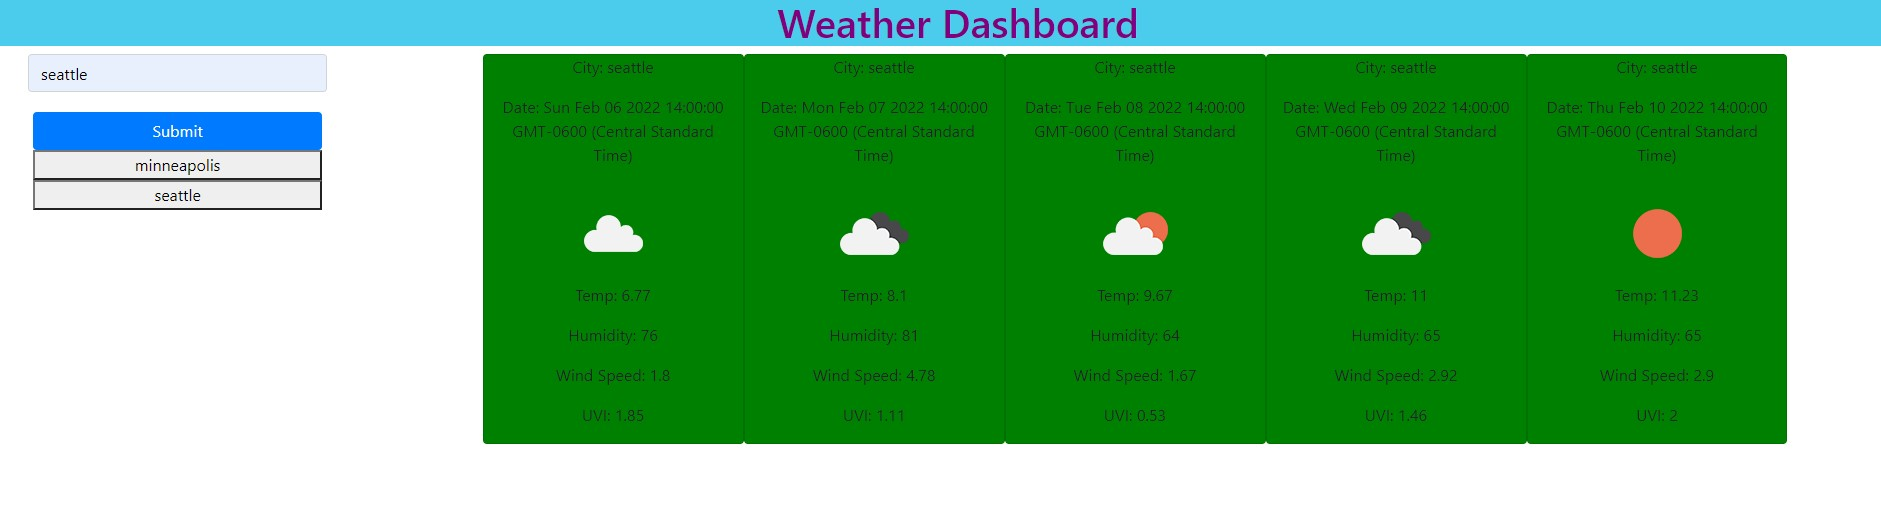
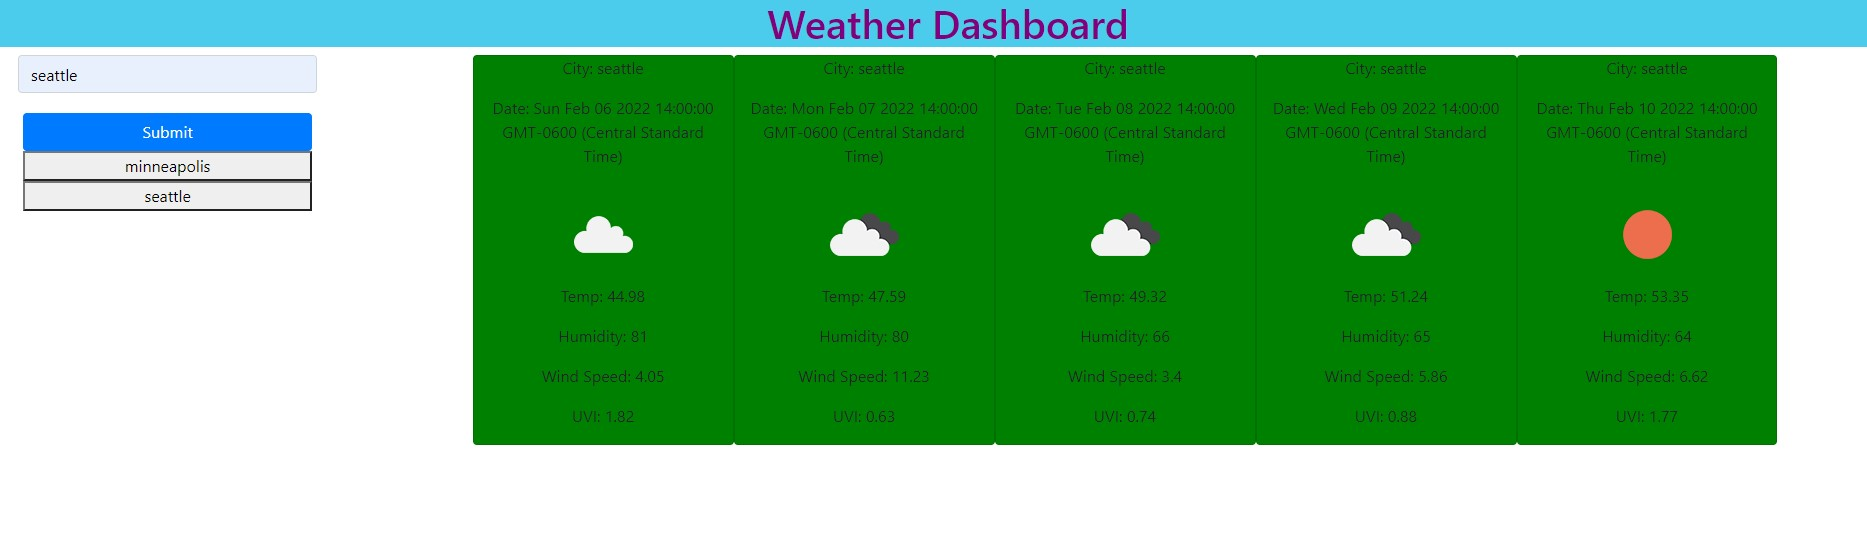
changing to imperial units

diff --git a/assets/js/script.js b/assets/js/script.js
@@ -50,7 +50,7 @@ var makeCoordinates = function (cityEntered) {
 var getWeather = function (lat, lon) {
 
 
-  var apiURL2 = "https://api.openweathermap.org/data/2.5/onecall?lat=" + lat + "&lon=" + lon + "&appid=4523c39d6b573820e0a0469c2e98ebe6&units=metric";
+  var apiURL2 = "https://api.openweathermap.org/data/2.5/onecall?lat=" + lat + "&lon=" + lon + "&appid=4523c39d6b573820e0a0469c2e98ebe6&units=imperial";
   fetch(apiURL2)
     .then(function (response) {
       // request was successful
